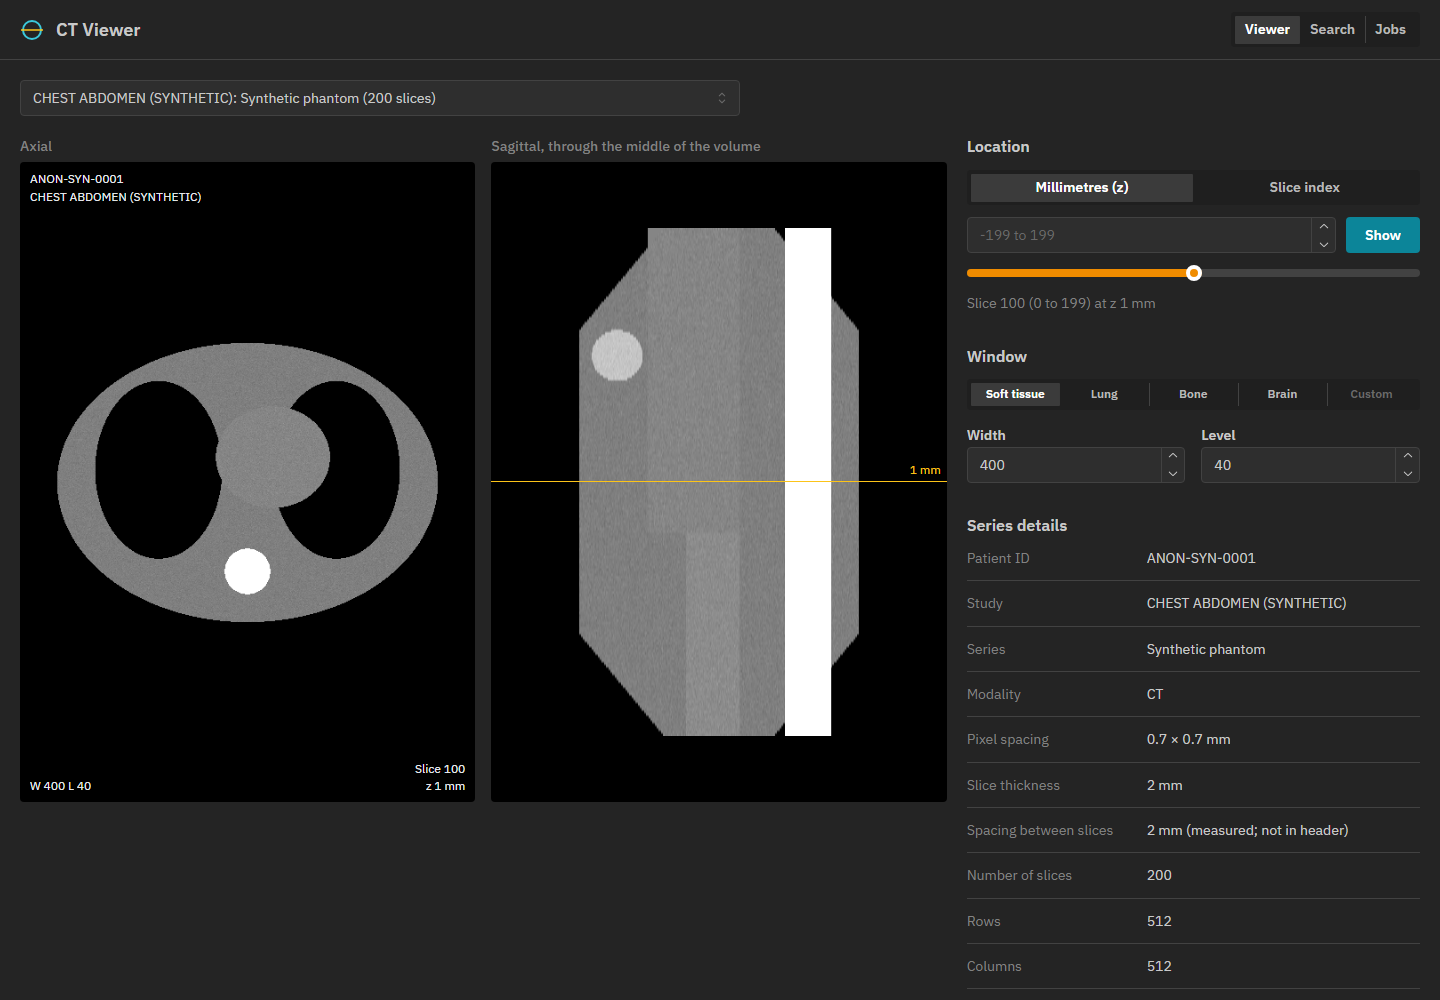
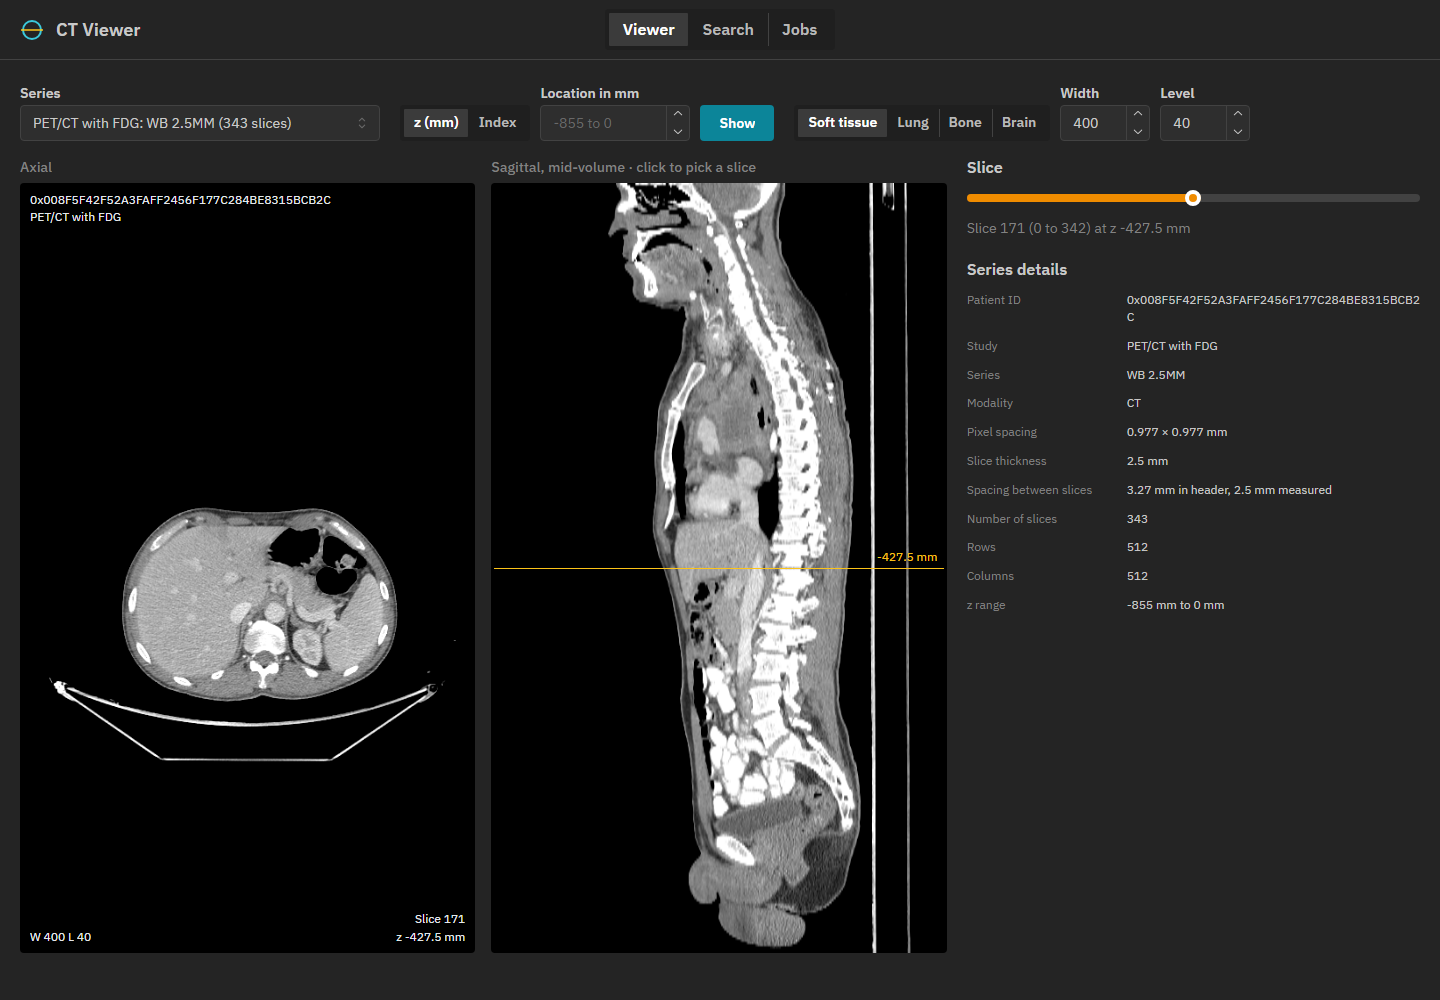
Fixes from the submission review
- README: current screenshot of the provided PET/CT sample; note that the
  <1.5 mm search is empty on the samples and how description search matches
- Untrack .vscode/settings.json and ignore .vscode/
- CI: GitHub Actions runs ruff, pytest against PostgreSQL, the frontend
  type-check build and the image builds (devops.md now points at it)
- Relay: stop a dispatch pass at the first publish failure, so a hung Redis
  holds the outbox transaction for one timeout instead of up to 100
- Compose: the worker reads REDIS_URL instead of a hard-coded URL
- devops.md: the relay also reaches PostgreSQL/Redis; the CDN note says the
  API sends no Cache-Control yet
- design.md: rewrite spec-style imperatives as design statements with reasons

diff --git a/backend/tests/test_api.py b/backend/tests/test_api.py
@@ -270,6 +270,21 @@ def test_queue_outage_keeps_accepted_jobs_queued(client):
     assert "Connection refused" in row["last_error"]
 
 
+def test_queue_outage_stops_the_pass_at_the_first_failure(client):
+    client.post("/api/jobs", json={"path": "a"})
+    client.post("/api/jobs", json={"path": "b"})
+    attempts = []
+
+    def unavailable(job_id):
+        attempts.append(job_id)
+        raise RedisConnectionError("Timeout")
+
+    assert dispatch.publish_due(publish=unavailable) == 0
+    assert len(attempts) == 1  # not one socket timeout per due job while Redis hangs
+    published = []
+    assert dispatch.publish_due(publish=published.append) == 1  # the other job is still due; the failed one waits 5 s
+
+
 def test_analysis_failure_preserves_searchable_metadata(client, make_series, monkeypatch):
     make_series("chest")
 

diff --git a/backend/app/db/dispatch.py b/backend/app/db/dispatch.py
@@ -24,7 +24,9 @@ def publish_due(*, publish: Callable[[int], None]) -> int:
                     "interval '5 seconds' WHERE job_id = %s",
                     (f"{type(exc).__name__}: {exc}", row["job_id"]),
                 )
-                continue
+                # Redis is likely down: stop here so a hung queue holds this transaction for one timeout, not 100.
+                # The remaining rows stay due for the next pass; the failed one moves behind them.
+                break
             conn.execute(
                 "UPDATE job_outbox SET published_at = clock_timestamp(), last_error = NULL, "
                 "next_dispatch_at = clock_timestamp() + %s * interval '1 second' WHERE job_id = %s",

diff --git a/docs/design.md b/docs/design.md
@@ -1,8 +1,7 @@
 # Part 1 · System design: CT processing service
 
 Researchers upload a CT study, request processing, and return later to view images and query metadata.
-This document describes the target service. The final section distinguishes it from the current Part 2
-implementation; target capabilities are not claims that those features already exist.
+This document describes the full service. Part 2 implements a slice of it; the last section lists which parts.
 
 ## Assumptions
 
@@ -103,50 +102,55 @@ sequenceDiagram
     Note over R,DB: Reconciler recovers stranded dispatch and expired leases
 ```
 
-Separate header extraction from viewer geometry validation. Save available metadata after identifying a single
-series, before pixel decoding or analysis. Missing optional tags are null. Unreadable headers or mixed series
-produce an ingestion failure; metadata that cannot be extracted cannot be promised. Unsupported geometry or
-corrupt pixels produce an analysis failure while retaining the searchable index.
+Header extraction and viewer geometry validation are separate steps. The worker saves the metadata as soon as it
+knows the folder holds a single series, before decoding any pixels, because a series with odd geometry is still
+worth finding in a search. Missing optional tags are stored as null. Unreadable headers or mixed series are an
+ingestion failure, since there is no reliable metadata to save. Unsupported geometry or corrupt pixels are an
+analysis failure, and the series stays searchable.
 
 ## Data model and interfaces
 
 * `series`: unique SeriesInstanceUID, StudyInstanceUID, anonymized patient ID, study and series descriptions,
   modality, pixel spacing, slice thickness, header spacing between slices, measured spacing, slice count, rows
-  and columns. Store ordered z positions and file references when available. Upserts avoid duplicate metadata
+  and columns, plus the ordered z positions and slice file references. Upserts avoid duplicate metadata
   for repeated submissions of the same immutable series. A series can exist without a successful analysis.
 * `jobs`: source reference, batch ID, CSV row number, series link, status (`queued`, `running`, `done`, `failed`),
   processing stage, attempt count, error reason, timestamps, lease expiry and attempt token.
 * `results`: successful job/series link and sagittal plane, initially as PostgreSQL `bytea` with dimensions and
-  value format. Save the result and mark its job done in one transaction. Later failed jobs do not erase results.
+  value format. The result and its job's `done` status commit in one transaction, so a job is never done without
+  its result. Later failed jobs do not erase results.
 * `upload_sessions`: manifest, object prefix, progress, expiry and accepted job link.
 * `job_outbox`: publication requests committed with jobs; publication can safely repeat.
 
 Study fields initially live on the series row. One series per directory does not imply one series per study:
 study-level searches deduplicate by StudyInstanceUID. A thickness query uses `slice_thickness < 1.5`, excluding
 unknown values. A study-description filter searches StudyDescription; general description search may include
-both descriptions. Index thickness and study UID, and paginate catalog and job history so old results remain reachable.
+both descriptions. Thickness and study UID are indexed, and the catalog and job history are paged so old results
+remain reachable.
 
-Preserve existing API concepts: `POST /api/jobs`, `POST /api/batches`, `GET /api/jobs`, `GET /api/series`,
-`GET /api/series/{id}`, and series `/locate`, `/axial/{index}` and `/sagittal` endpoints. Upload sessions are
-full-service additions. Series responses expose analysis availability; image endpoints use the latest successful
+The full service keeps the Part 2 API: `POST /api/jobs`, `POST /api/batches`, `GET /api/jobs`, `GET /api/series`,
+`GET /api/series/{id}`, and the series `/locate`, `/axial/{index}` and `/sagittal` endpoints. Upload sessions are
+the only new resource. Series responses expose analysis availability; image endpoints use the latest successful
 result by completion time, or report that analysis is unavailable. Job history retains individual result links.
 The browser polls pending work and reloads durable history on return.
 
 ## Part 2 viewer behavior
 
-* Sort slices by ImagePositionPatient z, never filename. Index 0 is the lowest z.
-* Accept either z in millimetres or a zero-based index. Choose the nearest z; ties select the lower index.
-  Out-of-range z selects the nearest endpoint with an explanation; invalid indices are rejected.
-* Decode the axial slice and apply its modality transform before windowing. Under the geometry assumptions,
-  generate the sagittal plane from the middle column (`columns // 2`) of each slice.
-* Display superior slices at the sagittal image's top and mark the selected slice with a horizontal line through
-  its row. Label the actual selected z. Use physical spacing for proportions; irregular geometry needs resampling
-  or an explicit unsupported-data error.
-* Show all ten required entries: patient ID, study description, series description, modality, pixel spacing,
-  slice thickness, spacing between slices, number of slices, rows and columns. Label measured spacing separately
-  when the header spacing is absent or differs.
-* Default window width to 400 and level to 40. Require positive width and apply changes to both views. Store
-  analysis values before windowing, so changing the window renders PNGs without rerunning analysis.
+* Slices are sorted by ImagePositionPatient z, never by file name, because file names and InstanceNumber are not
+  guaranteed to follow anatomy. Index 0 is the lowest z.
+* The user gives either z in millimetres or a zero-based index. The nearest z wins, and a tie picks the lower
+  index. A z outside the scan shows the nearest end slice and says so; an invalid index is rejected.
+* The axial slice is decoded and converted to Hounsfield units (the modality transform) before windowing. The
+  sagittal plane is the middle column (`columns // 2`) of every slice, which is exact under the geometry
+  assumptions above.
+* Superior slices are at the top of the sagittal image, and a horizontal line through the selected slice's row
+  marks it, labelled with the actual z. Proportions follow the physical spacing. Irregular geometry would need
+  resampling, so it is rejected with a reason instead of being drawn distorted.
+* The metadata table shows all ten required entries: patient ID, study description, series description,
+  modality, pixel spacing, slice thickness, spacing between slices, number of slices, rows and columns. Spacing
+  measured from the positions is shown next to the header value when the tag is missing or disagrees.
+* The window defaults to width 400 and level 40, the width must be positive, and a change applies to both views.
+  The analysis stores Hounsfield values, not a windowed image, so changing the window only re-renders PNGs.
 
 Part 2 now validates standard axial orientation, matching dimensions and pixel spacing, aligned in-plane origins,
 and approximately uniform z spacing before analysis. It rejects unsupported geometry with a reason while retaining
@@ -174,8 +178,9 @@ application recovery logic in addition to RQ:
 * **Database outage during failure reporting:** callbacks cannot persist while PostgreSQL is unavailable. Once it
   returns, reconciliation finds expired leases and retries or records an interruption failure. Preserve a specific
   cause if available; otherwise state that the worker stopped and the original cause was not recorded.
-* **Visible errors:** persist the failed stage and readable reason, such as "Directory not found", "Expected one
-  series, found 2", or "Pixel decoding failed". Keep diagnostic traces in protected logs tied to job IDs. Analysis
+* **Visible errors:** the job stores the failed stage and a readable reason, such as "Directory not found",
+  "Expected one series, found 2", or "Pixel decoding failed". Stack traces go to protected logs, tagged with the job
+  ID, because they can contain paths and header values that users should not see. Analysis
   failure retains metadata. Terminal outcomes remain visible after browser closure and service restart.
 
 ## Choices and trade-offs
@@ -190,29 +195,33 @@ application recovery logic in addition to RQ:
 | Small results in PostgreSQL | Result and completion commit atomically. Large or numerous outputs eventually need object storage and cleanup of unreferenced results. |
 | Server-rendered PNG | Avoids sending the entire volume to the browser. Window changes require requests and server work; latency must be measured. |
 
-Scale workers independently with bounded concurrency to control disk bandwidth and memory. The sagittal algorithm
+Workers scale independently of the API, and each runs one job at a time, which bounds disk bandwidth and memory
+per worker. The sagittal algorithm
 retains headers, one decoded slice and the output plane rather than the entire volume; actual memory depends on
 image dimensions and decoder buffers. API replicas share persistent storage and PostgreSQL.
 
-At a million series, move results to object storage, add a trigram index for substring searches, use keyset
-pagination, and archive or partition job history. Normalize studies if repeated fields become costly, introduce
-versioned migrations, and measure before adding replicas or another search service. The
+At a million series, results would move to object storage, substring searches would get a trigram index, and job
+history would be archived or partitioned (pagination is already keyset). Studies would get their own table if
+repeated fields become costly, migrations would become versioned, and replicas or a search service would come only
+after measurements show the need. The
 [README](../README.md#why-postgresql) contains the database rationale and scaling discussion required by Part 2.
 
 ## Security and operations
 
 The full service uses institutional SSO, accepting identity headers only from a trusted proxy. The initial group
-shares access; separate groups would require authorization on metadata, jobs, sources and results. Scope signed
-URLs to an upload session and ensure sealing prevents writes using old credentials, for example by copying verified
-objects into a worker-readable prefix that upload credentials cannot modify. Validate manifest paths and bound
-file counts and total bytes.
+shares access; separate groups would require authorization on metadata, jobs, sources and results. Signed URLs
+are scoped to one upload session. Sealing copies the verified objects into a worker-readable prefix that upload
+credentials cannot write to, so a leaked upload URL cannot change a series after it was checked. Manifest paths are
+validated, and file counts and total bytes are bounded.
 
-Resolve shared paths, including symlinks, within the data root and mount it read-only. Use non-root containers,
-managed secrets and HTTPS. Avoid patient metadata and pixels in logs; protect logs and backups as research data.
-Test restoration of both PostgreSQL and source files.
+Shared paths are resolved, symlinks included, and must stay inside the data root, which is mounted read-only.
+Containers run as non-root, secrets come from a secret manager, and all traffic is HTTPS. Logs carry no patient
+metadata or pixels, and logs and backups are protected as research data. Restores of both PostgreSQL and the
+source files are tested, since a backup that was never restored is not known to work.
 
-Monitor API errors/latency, oldest pending outbox entry, oldest queued job, expired leases, failures by stage,
-worker availability and storage capacity. Alert when reconciliation cannot progress. `/api/health` provides
+Monitoring covers API errors and latency, the oldest pending outbox entry, the oldest queued job, expired leases,
+failures by stage, worker availability and storage capacity, with an alert when reconciliation stops making
+progress. `/api/health` provides
 liveness; deployment readiness checks required dependencies. See [devops.md](devops.md) for existing deployment
 notes; relay, lease and upload monitoring described here are target additions.
 

diff --git a/docs/devops.md b/docs/devops.md
@@ -33,15 +33,14 @@ All services share the compose network and find each other by service name:
 * `web`'s nginx sends `/api/*` to `http://api:8000` ([`nginx.conf`](../frontend/nginx.conf)), so the browser sees
   a single origin (no CORS). nginx looks `api` up through Docker's DNS (`resolver 127.0.0.11`) on each
   request, so a recreated `api` container with a new IP is found without restarting `web`.
-* `api` and `worker` reach PostgreSQL at `db:5432` and Redis at `redis:6379` through `DATABASE_URL` and
-  `REDIS_URL`.
+* `api`, `worker` and `relay` reach PostgreSQL at `db:5432` and Redis at `redis:6379` through `DATABASE_URL` and
+  `REDIS_URL`, set once in the compose file's shared backend block.
 * Start order follows the healthchecks: `db` and `redis` must be healthy before the backend services start, and
   `web` waits for `api`'s `/api/health`.
 
 ## CI pipeline
 
-The repository has no pipeline, since the app is reviewed by running it locally. On GitHub Actions (or GitLab
-CI) I would run these on every pull request:
+[`.github/workflows/ci.yml`](../.github/workflows/ci.yml) runs three parallel jobs on every push and pull request:
 
 1. **backend:** `uv sync --frozen`, `ruff check`, `ruff format --check`, then `pytest` with a PostgreSQL
    service container and `TEST_DATABASE_URL` set, so the API tests run as well as the unit tests (which use
@@ -49,7 +48,7 @@ CI) I would run these on every pull request:
 2. **frontend:** `npm ci` and `npm run build`, which type-checks before bundling.
 3. **images:** `docker compose build`, so a broken Dockerfile fails the pull request.
 
-On `main`, CD pushes both images to a registry tagged with the commit SHA and deploys that tag to staging
+What I would add for a deployed service: on `main`, CD pushes both images to a registry tagged with the commit SHA and deploys that tag to staging
 (`helm upgrade --install`). It runs a smoke test there (index a synthetic series, fetch both images), then promotes
 the same tag to production. Dependabot or Renovate keeps dependencies current, and Trivy scans the images.
 
@@ -69,7 +68,7 @@ scales vertically, or becomes a managed service.
 | Component | How it scales | Where the limit is, and the next step |
 |---|---|---|
 | `worker` | One job at a time per worker. Jobs are claimed in PostgreSQL (`claim_job` succeeds once), so extra replicas never process a job twice. On Kubernetes, KEDA adds workers as the queue grows ([deploy/k8s](../deploy/k8s/README.md)). | PostgreSQL connections: each running job opens its own pool (up to 10 connections) in the process RQ forks for it. Above ~20 workers, put PgBouncer in front. Shared DICOM storage bandwidth comes next. |
-| `api` | Stateless replicas behind nginx or an Ingress. | Rendering PNGs uses CPU in one Python process per container. Add replicas, or `uvicorn --workers`. Image URLs are versioned (`v=updated_at`), so a CDN could cache them. |
+| `api` | Stateless replicas behind nginx or an Ingress. | Rendering PNGs uses CPU in one Python process per container. Add replicas, or `uvicorn --workers`. Image URLs are versioned (`v=updated_at`), so once the API sends a long `Cache-Control` on PNGs (it sends none today), a CDN or the browser could cache them safely. |
 | `relay` | One is enough: each pass publishes up to 100 jobs every 2 s, about 50 jobs per second. | Extra replicas are safe, because `FOR UPDATE SKIP LOCKED` gives each relay different rows. |
 | `redis` | One stateful primary: the waiting job IDs, saved to disk (append-only file). Replicas add failover (Sentinel or a managed Redis), not capacity, since RQ uses the primary. | Not a bottleneck at this load. If its data is lost, the relay republishes queued jobs from the outbox, so no accepted job is lost; RQ's own failed-job registry is. |
 | `db` | Vertical first. A managed PostgreSQL with a read replica for search. | Sagittal planes (~350 KB each) in `bytea` move to object storage at about a million series, and "description contains" search needs a `pg_trgm` index. See the README. |
@@ -79,7 +78,8 @@ scales vertically, or becomes a managed service.
 * Locally, the only secret is `POSTGRES_PASSWORD`. It goes in `.env`, which is git-ignored; `.env.example`
   documents it. Compose has a development default so a clean checkout starts with no setup.
 * Images contain no secrets: everything comes from the environment at run time.
-* In CI they would be the CI system's encrypted secrets. Deploying to a cloud would use OIDC federation instead of
+* CI needs none today: its PostgreSQL is a throwaway service container. Registry or cloud credentials would be the
+  CI system's encrypted secrets. Deploying to a cloud would use OIDC federation instead of
   long-lived keys.
 * In production, secrets come from a secret manager (AWS Secrets Manager, Vault, or Kubernetes Secrets) as
   environment variables or mounted files, and are rotated there.

diff --git a/README.md b/README.md
@@ -40,7 +40,9 @@ Needs only Docker with Compose v2 (Docker Desktop, or Docker Engine 24+).
    [`examples/sample_batch.csv`](examples/sample_batch.csv). Each series takes a few seconds.
    [`examples/batch_with_errors.csv`](examples/batch_with_errors.csv) shows how failed rows are reported.
 4. On **Viewer**, pick a series and enter a location in mm or a slice index. Change the window with the presets
-   or the width/level fields (default soft tissue, 400/40). **Search** runs queries across studies.
+   or the width/level fields (default soft tissue, 400/40). **Search** runs queries across studies. The samples
+   are 2.0 and 2.5 mm thick, so *thinner than 1.5 mm* correctly finds nothing; try 2.2 mm, or the description
+   `chest` (a case-insensitive match on the study or series description).
 
 Stop with `docker compose down`. Add `-v` to also delete the database.
 More workers process more series at once: `docker compose up -d --scale worker=6`. For autoscaling on
